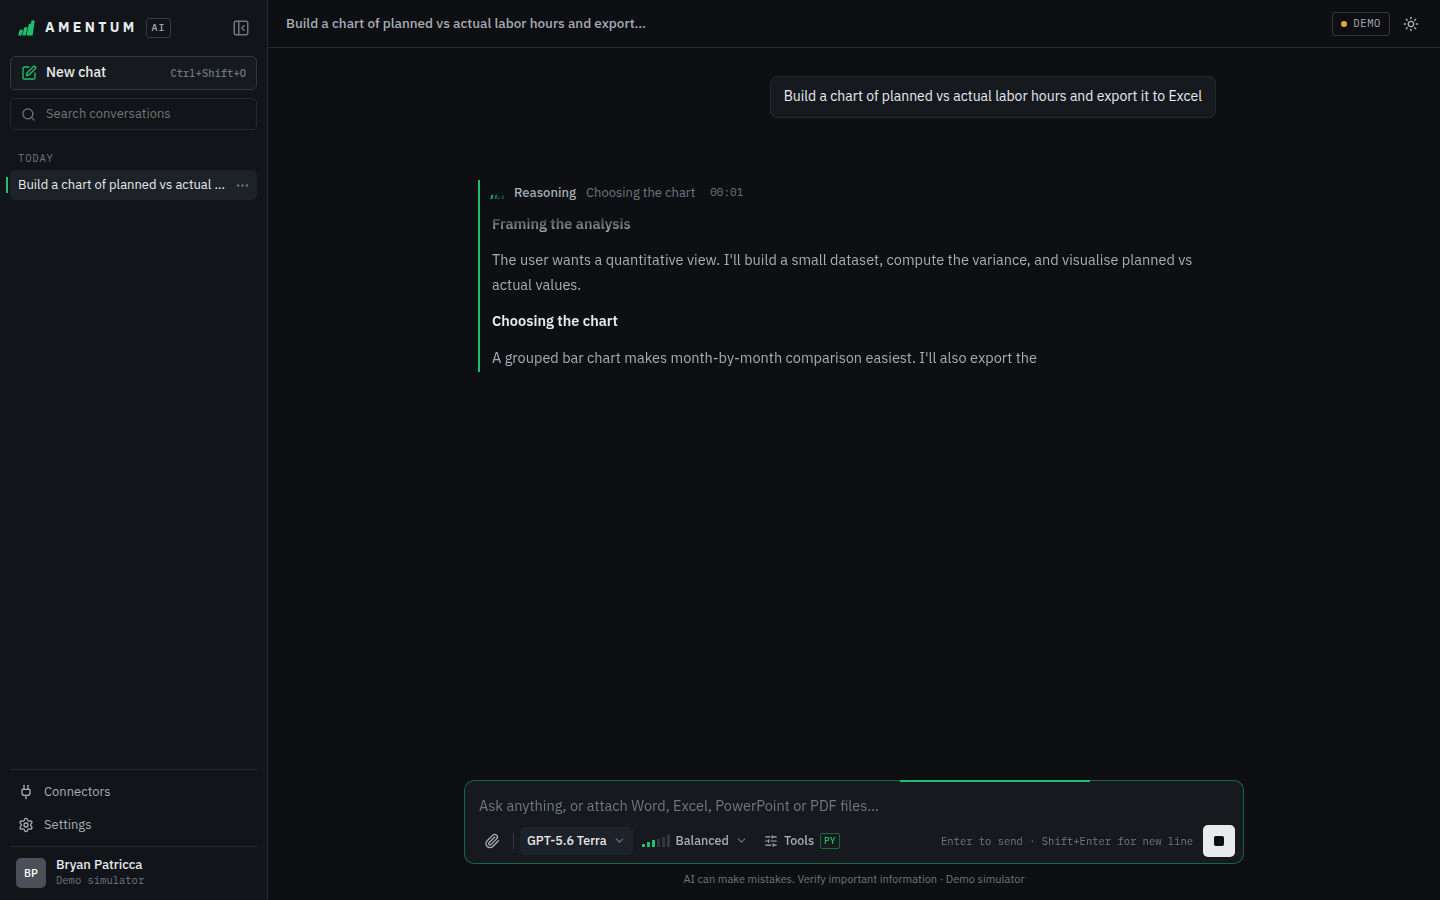
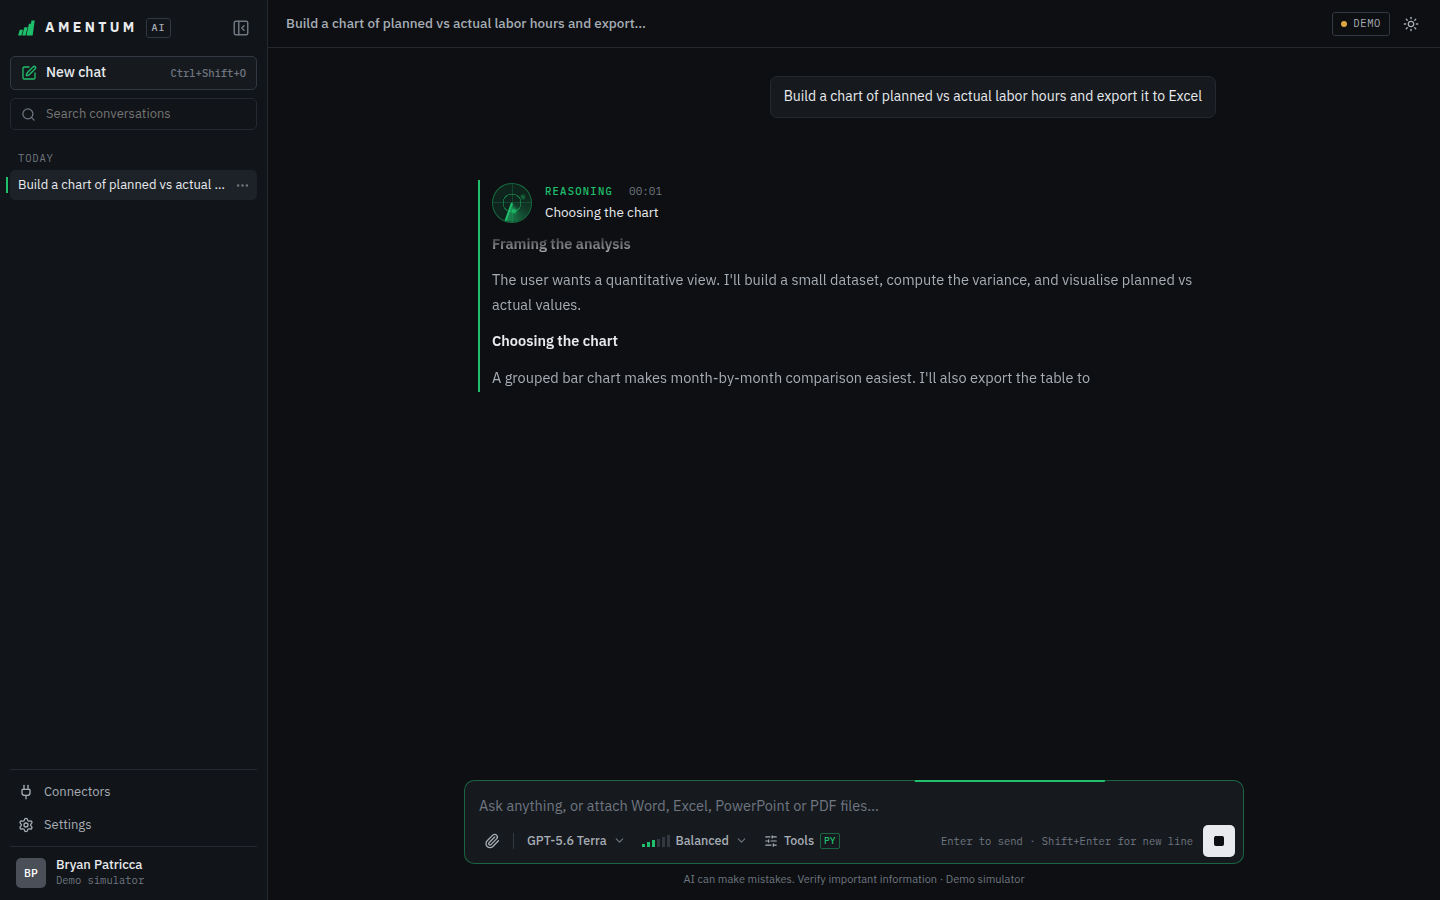
Replace the tiny reasoning loader with a radar-sweep thinking spinner
- New Radar spinner: range rings, crosshair, a rotating beam with a fading trail, and
  contacts that light up as the beam passes them. It honours reduced motion.
- While the model reasons, a live header shows the radar, a REASONING label, a mm:ss timer
  and the current step's heading. The "working" indicator between steps uses the radar too.
- README and the reasoning screenshot updated.

Claude-Session: https://claude.ai/code/session_01SfMbLYGnH1iChxbRCfdau6

diff --git a/amentum-chat/frontend/src/styles/app.css b/amentum-chat/frontend/src/styles/app.css
@@ -816,6 +816,85 @@ a {
   }
 }
 
+/* Thinking spinner: radar sweep. Rings + crosshair are drawn by the base, the beam rotates, and
+   each contact flares as the beam passes its bearing (delay = bearing / 360 × period). */
+.radar {
+  --period: 2.4s;
+  position: relative;
+  flex: none;
+  border-radius: 50%;
+  border: 1px solid var(--accent-line);
+  background:
+    radial-gradient(circle, transparent 0 31%, var(--accent-line) 31% calc(31% + 1px), transparent calc(31% + 1px)),
+    linear-gradient(var(--grid-line), var(--grid-line)) center / 100% 1px no-repeat,
+    linear-gradient(var(--grid-line), var(--grid-line)) center / 1px 100% no-repeat,
+    var(--accent-soft);
+  overflow: hidden;
+  --grid-line: color-mix(in srgb, var(--accent) 22%, transparent);
+}
+
+.radar-sweep {
+  position: absolute;
+  inset: 0;
+  border-radius: 50%;
+  background: conic-gradient(
+    from 0deg,
+    transparent 0 62%,
+    color-mix(in srgb, var(--accent) 16%, transparent) 78%,
+    color-mix(in srgb, var(--accent) 65%, transparent) 100%
+  );
+  animation: sweep var(--period) linear infinite;
+}
+
+.radar-sweep::after {
+  content: "";
+  position: absolute;
+  left: calc(50% - 0.75px);
+  top: 0;
+  width: 1.5px;
+  height: 50%;
+  background: var(--accent);
+}
+
+.radar-blip {
+  position: absolute;
+  width: 11%;
+  height: 11%;
+  min-width: 3px;
+  min-height: 3px;
+  border-radius: 50%;
+  background: var(--accent);
+  box-shadow: 0 0 0 1.5px color-mix(in srgb, var(--accent) 30%, transparent);
+  translate: -50% -50%;
+  opacity: 0;
+  animation: blip var(--period) linear infinite;
+}
+
+.radar-blip:nth-of-type(2) { left: 77.7%; top: 34%;   animation-delay: calc(var(--period) * 60 / 360); }
+.radar-blip:nth-of-type(3) { left: 55.7%; top: 71.3%; animation-delay: calc(var(--period) * 165 / 360); }
+.radar-blip:nth-of-type(4) { left: 21%;   top: 42.2%; animation-delay: calc(var(--period) * 285 / 360); }
+
+@keyframes sweep {
+  to {
+    transform: rotate(1turn);
+  }
+}
+
+@keyframes blip {
+  0% {
+    opacity: 1;
+    scale: 1.5;
+  }
+  10% {
+    scale: 1;
+  }
+  65%,
+  100% {
+    opacity: 0;
+    scale: 1;
+  }
+}
+
 .level-bars {
   display: inline-flex;
   align-items: flex-end;
@@ -1074,8 +1153,8 @@ a {
 .thinking-indicator {
   display: inline-flex;
   align-items: center;
-  gap: 10px;
-  height: 28px;
+  gap: 12px;
+  min-height: 34px;
   font-size: 13px;
 }
 
@@ -1117,6 +1196,45 @@ a {
 
 .thinking:not(.is-running) .thinking-head:not(:disabled):hover {
   color: var(--text);
+}
+
+.thinking-live {
+  display: flex;
+  align-items: center;
+  gap: 13px;
+  min-height: 46px;
+  min-width: 0;
+}
+
+.thinking-live-text {
+  display: flex;
+  flex-direction: column;
+  gap: 2px;
+  min-width: 0;
+}
+
+.thinking-live-top {
+  display: flex;
+  align-items: baseline;
+  gap: 10px;
+}
+
+.thinking-kicker {
+  font-family: var(--font-mono);
+  font-size: 10.5px;
+  font-weight: 500;
+  letter-spacing: 0.12em;
+  text-transform: uppercase;
+  color: var(--accent);
+}
+
+.thinking-live .thinking-heading {
+  font-size: 13.5px;
+  color: var(--text);
+}
+
+.thinking-live .thinking-timer {
+  margin-left: 0;
 }
 
 .thinking-mark {
@@ -3008,5 +3126,15 @@ a {
     animation: none !important;
     transform: none;
     opacity: 1;
+  }
+
+  .radar-sweep {
+    animation: none !important;
+    transform: rotate(45deg);
+  }
+
+  .radar-blip {
+    animation: none !important;
+    opacity: 0.7;
   }
 }

diff --git a/amentum-chat/frontend/src/components/ThinkingBlock.tsx b/amentum-chat/frontend/src/components/ThinkingBlock.tsx
@@ -3,7 +3,7 @@ import { ChevronRight } from "lucide-react";
 import clsx from "clsx";
 import type { Part } from "../lib/types";
 import { Markdown } from "./Markdown";
-import { clock, Loader, useElapsed } from "./ThinkingSpinner";
+import { clock, Radar, useElapsed } from "./ThinkingSpinner";
 
 type ReasoningPart = Extract<Part, { type: "reasoning" }>;
 
@@ -34,27 +34,32 @@ export function ThinkingBlock({ part, expandDefault }: { part: ReasoningPart; ex
 
   return (
     <div className={clsx("thinking", running && "is-running", showBody && "is-open")}>
-      <button
-        className="thinking-head"
-        onClick={() => hasText && !running && setOpen((o) => !o)}
-        aria-expanded={showBody}
-        disabled={!hasText || running}
-      >
-        {running ? <Loader size={13} /> : <span className="thinking-mark" aria-hidden />}
-        {running ? (
-          <span className="thinking-label">
-            <span className="status-label">Reasoning</span>
-            {heading && <span className="thinking-heading">{heading}</span>}
+      {running ? (
+        <div className="thinking-live" role="status" aria-live="polite">
+          <Radar size={40} />
+          <span className="thinking-live-text">
+            <span className="thinking-live-top">
+              <span className="thinking-kicker">Reasoning</span>
+              <span className="thinking-timer">{clock(elapsed)}</span>
+            </span>
+            <span className="thinking-heading">{heading ?? "Working through the problem"}</span>
           </span>
-        ) : (
+        </div>
+      ) : (
+        <button
+          className="thinking-head"
+          onClick={() => hasText && setOpen((o) => !o)}
+          aria-expanded={showBody}
+          disabled={!hasText}
+        >
+          <span className="thinking-mark" aria-hidden />
           <span className="thinking-label done">
             {part.status === "stopped" ? "Reasoning stopped" : `Reasoned for ${secs}s`}
             {hasText && <span className="thinking-steps">{steps} step{steps === 1 ? "" : "s"}</span>}
           </span>
-        )}
-        {running && <span className="thinking-timer">{clock(elapsed)}</span>}
-        {!running && hasText && <ChevronRight size={14} className={clsx("chev-r", open && "open")} />}
-      </button>
+          {hasText && <ChevronRight size={14} className={clsx("chev-r", open && "open")} />}
+        </button>
+      )}
       {showBody && (
         <div className="thinking-body" ref={bodyRef}>
           <Markdown text={part.text} className="thinking-md" />

diff --git a/amentum-chat/frontend/src/components/ThinkingSpinner.tsx b/amentum-chat/frontend/src/components/ThinkingSpinner.tsx
@@ -12,6 +12,18 @@ export function Loader({ size = 16 }: { size?: number }) {
   );
 }
 
+/** Thinking spinner: a radar sweep with contacts that light up as the beam passes. */
+export function Radar({ size = 30 }: { size?: number }) {
+  return (
+    <span className="radar" style={{ width: size, height: size }} aria-hidden>
+      <i className="radar-sweep" />
+      <i className="radar-blip" />
+      <i className="radar-blip" />
+      <i className="radar-blip" />
+    </span>
+  );
+}
+
 export function useElapsed(startMs: number | null, running: boolean): number {
   const [now, setNow] = useState(Date.now());
   useEffect(() => {
@@ -32,7 +44,7 @@ export function ThinkingIndicator({ label, startedAt }: { label: string; started
   const elapsed = useElapsed(startedAt, true);
   return (
     <div className="thinking-indicator" role="status" aria-live="polite">
-      <Loader size={14} />
+      <Radar size={30} />
       <span className="status-label">{label}</span>
       {startedAt && <span className="thinking-timer">{clock(elapsed)}</span>}
     </div>

diff --git a/amentum-chat/README.md b/amentum-chat/README.md
@@ -21,8 +21,8 @@ your PC today against the OpenAI API, or with no API key at all in demo mode.
 - **GPT-5.6 Sol / Terra / Luna** with **model and reasoning-effort dropdowns right in the chat
   composer**. Effort runs Instant, Light, Balanced, Deep, Extra deep and Maximum. All six levels were
   verified against the live API for all three models, and each model remembers its own level.
-- **Reasoning traces.** Reasoning summaries stream live from the Responses API with a rising-bars
-  activity indicator, a mm:ss timer and the current step's heading. When it finishes, the trace
+- **Reasoning traces.** While the model reasons, a radar-sweep spinner runs next to a mm:ss timer
+  and the heading of the current step, and the reasoning summary streams in live from the Responses API. When it finishes, the trace
   collapses to "Reasoned for 12s · 3 steps" and you can reopen it.
 - **Code interpreter.** A stateful Python (Jupyter) sandbox with pandas, matplotlib, openpyxl,
   python-docx, python-pptx, pypdf and reportlab. You can watch the code as it's written. Charts
